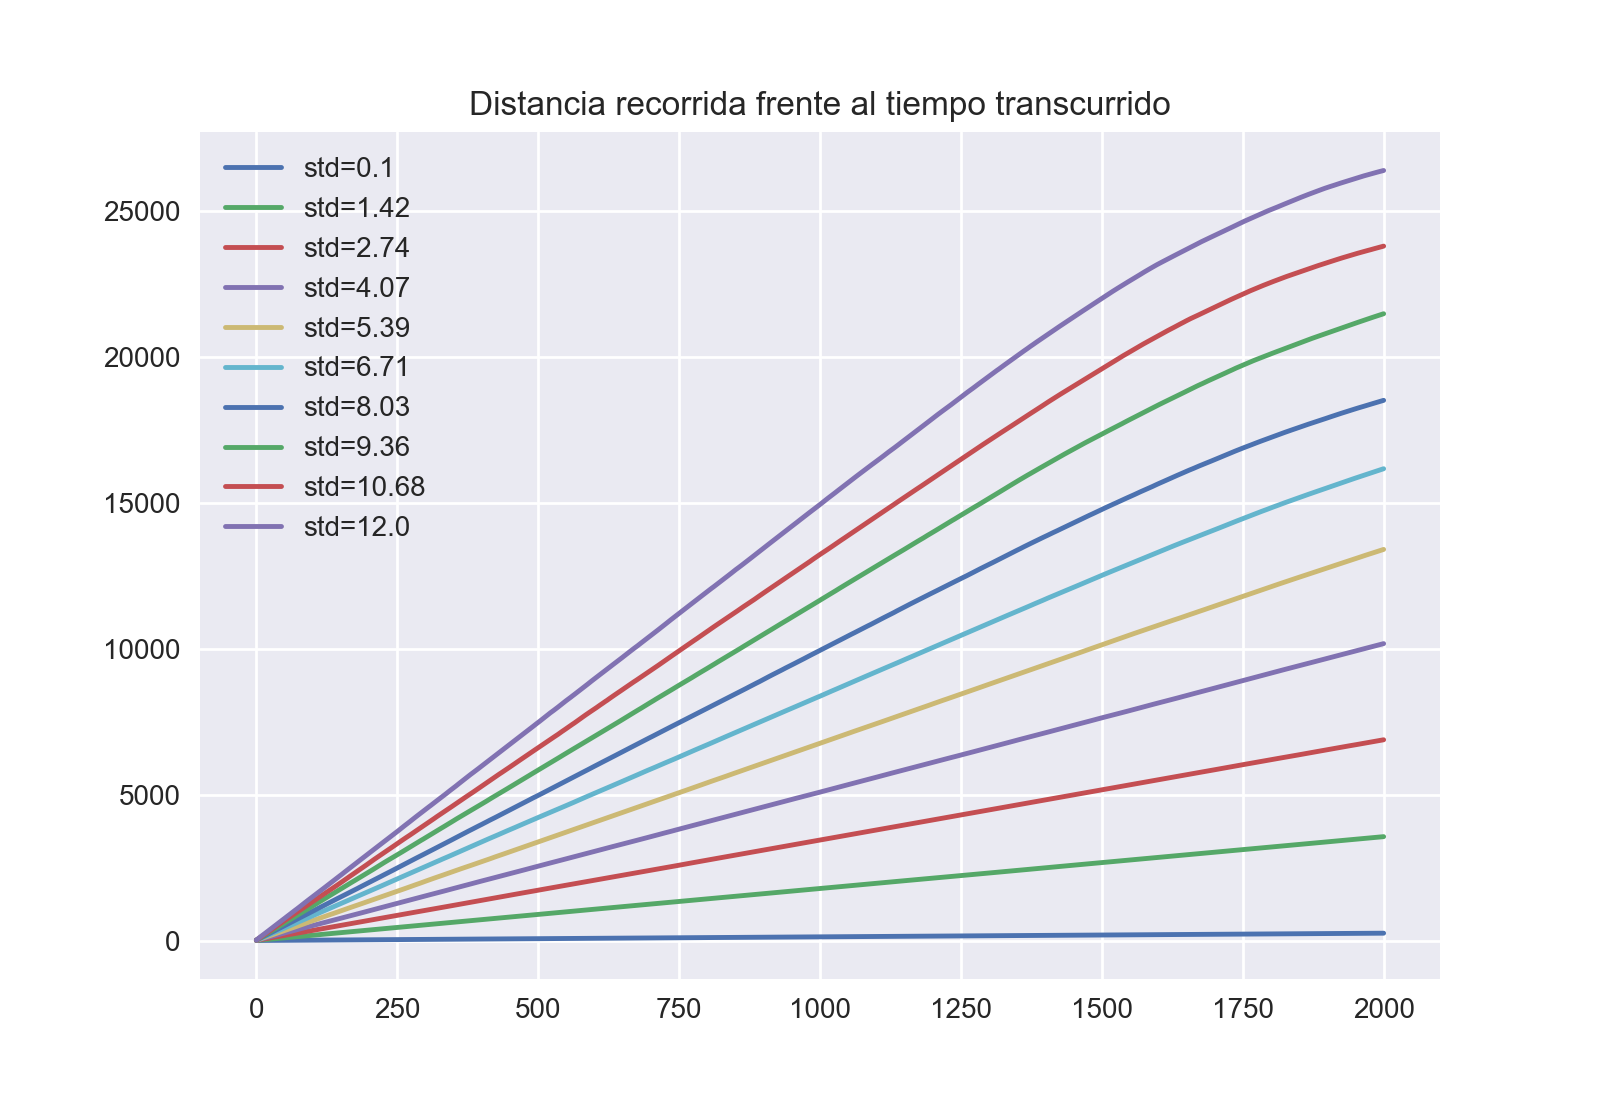
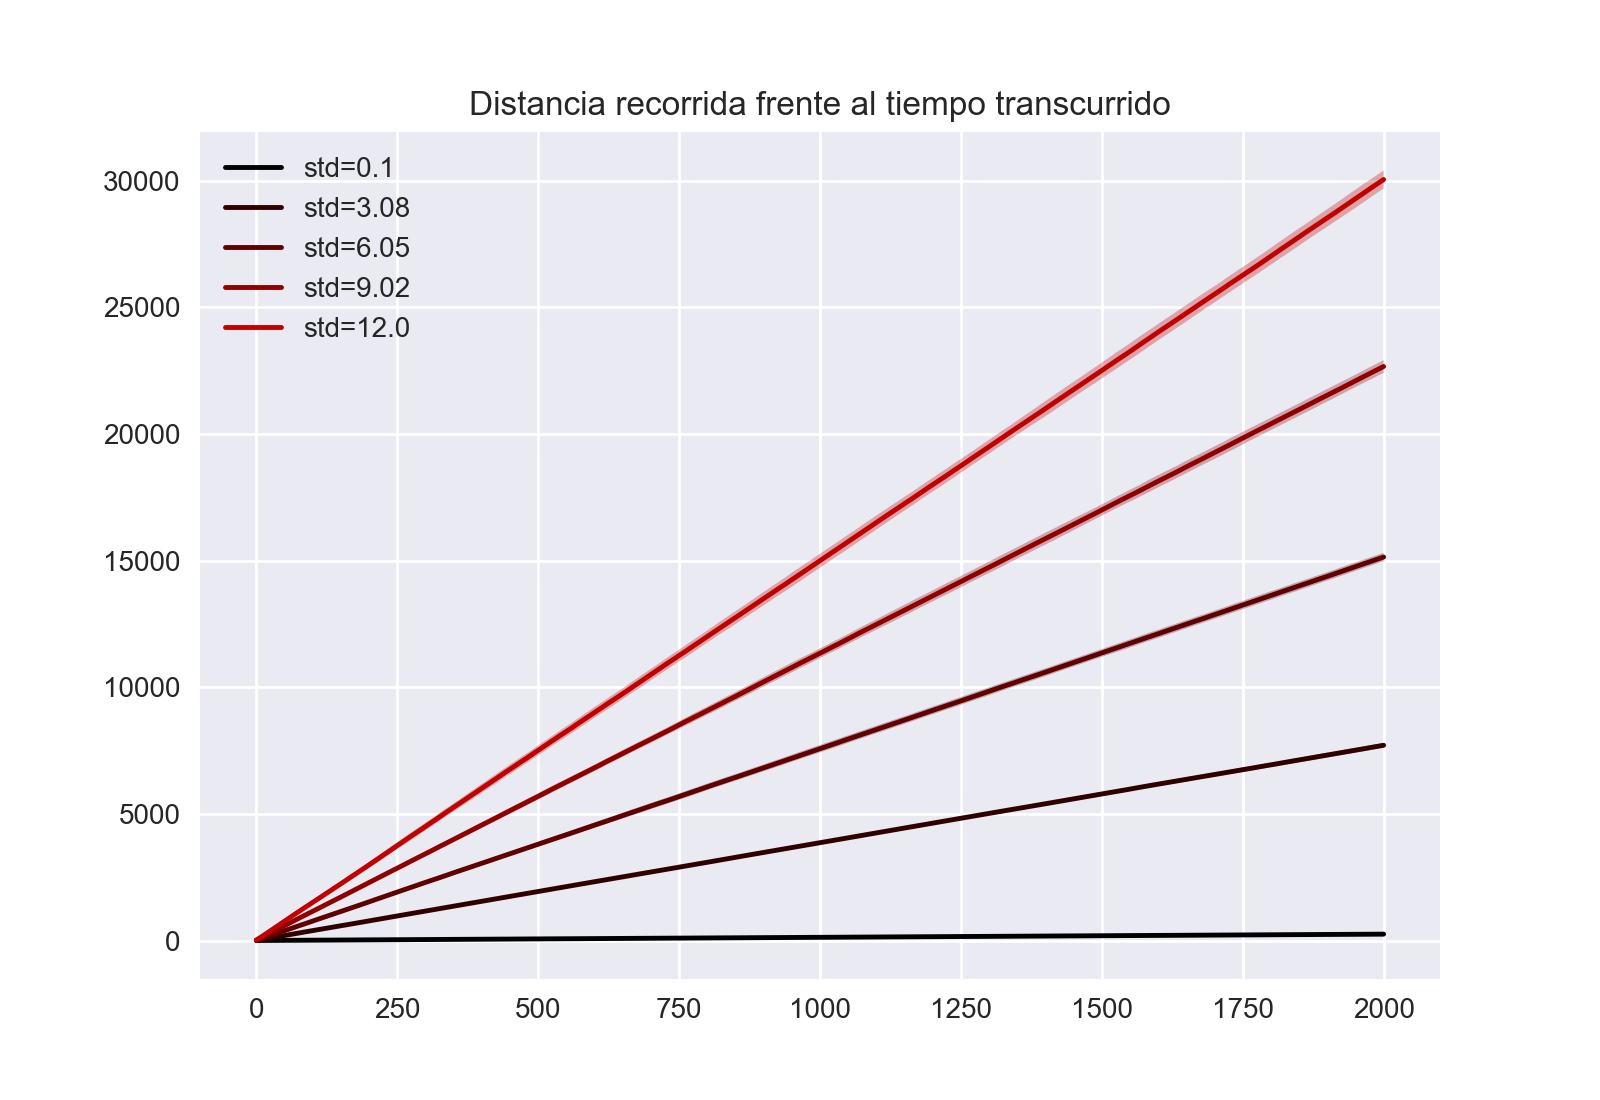
Para entrega 1

diff --git a/Proyecto/scripts/distancia_y_tiempos_variando_std.py b/Proyecto/scripts/distancia_y_tiempos_variando_std.py
@@ -1,7 +1,7 @@
 """
-Estudia  como varia el numero de targets/espacio recorrido y plotea el
-histograma de los valores obtenidos variando la desviacion estandar
-"""
+    Estudia  como varia el numero de targets/espacio recorrido y plotea el
+    histograma de los valores obtenidos variando la desviacion estandar
+    """
 
 import os
 import sys
@@ -18,15 +18,15 @@ from simulador import TargetEspacioOrganismo, VariacionParametroBloques
 from simulador import RandomWalker, LevyFlight
 from simulador import Explotados, Distancias
 
-n_simulaciones = 20
+n_simulaciones = 100
 n_variaciones = 5
 
 # Configuracion del espacio
 n_objetivos = 100 # Numero de objetivos
 size = (100.,100.) # Dimensiones del espacio
-r = 3 # Radio de explotacion
+r = 3 # Radio de explotacion
 std = np.linspace(0.1, 12, n_variaciones) # Desviacion estandar del movimiento browniano
-t = 500 # Tiempo a simular
+t = 2000 # Tiempo a simular
 inicial = (50,50) # Coordenadas iniciales (None para aleatorias)
 
 # Configuracion Plot
@@ -44,19 +44,24 @@ modelo.add_estadistica(Distancias())
 #Plots
 fig, distancias = plt.subplots(1, 1)
 distancias.set_title("Distancia recorrida frente al tiempo transcurrido")
+distancias.set_prop_cycle(color=plt.cm.gist_heat(np.linspace(0,0.5, n_variaciones)))
 
 fig, explotados = plt.subplots(1, 1)
 explotados.set_title("Numero de objetivos explotados frente al tiempo")
+explotados.set_prop_cycle(color=plt.cm.gist_heat(np.linspace(0,0.5, n_variaciones)))
 
 for desviacion in std:
     # Creamos un random walker y lo añadimos al modelo
     organismo = RandomWalker(r, std=desviacion, posicion=inicial)
     modelo.add_organismo(organismo)
-    modelo.simular(t, n_simulaciones, stop_empty=True, verbose=1)
-
+    modelo.simular(t, n_simulaciones, stop_empty=False, verbose=1)
+    
     organismo.plot_distancias(ax=distancias, param =f"std={round(desviacion,2)}")
     organismo.plot_numero_explotados(modelo, ax=explotados, param=f"std={round(desviacion,2)}")
     modelo.limpiar_organismos()
+
+    #print(organismo.std_distancias[1])
+    #print(organismo.std_distancias[-1])
 
 
 plt.show()

diff --git a/Proyecto/simulador/plots_temp.py b/Proyecto/simulador/plots_temp.py
@@ -1,0 +1,43 @@
+
+import matplotlib.pyplot as plt
+import numpy as np
+
+from .organismo import Organismo
+
+### Graficas de la estadistica Distancia recorrida
+def plot_distancias(organismo, ax=None, param=None, plot_ci=True):
+
+    if ax is None:
+        ax = plt.gca()
+
+    times = range(len(organismo.medias_distancias))
+    ax.plot(times, organismo.medias_distancias, label=param)
+    if plot_ci:
+        y1 = organismo.medias_distancias + organismo.std_distancias
+        y2 = organismo.medias_distancias - organismo.std_distancias
+        ax.fill_between(times, y1, y2, where=y1>=y2, alpha=0.3)
+        #ax.plot(times, y1, linestyle="dashed", color="red", linewidth=0.5)
+        #ax.plot(times, y2, linestyle="dashed", color="red", linewidth=0.5)
+    if param:
+        ax.legend()
+    return ax
+
+### Graficas de el numero de objetivos explotados en funcion del tiempo
+def plot_numero_explotados(organismo, modelo, ax=None, param=None, plot_ci=True):
+
+    if ax is None:
+        ax = plt.gca()
+
+    #ax.set_ylim([0, modelo.objetivos.numero_objetivos_inicial]) #Numero de objetivos inicial
+
+    times = range(len(organismo.medias_explotados))
+    ax.plot(times, organismo.medias_explotados, label=param)
+    if plot_ci:
+        y1 = organismo.medias_explotados + organismo.std_explotados
+        y2 = organismo.medias_explotados - organismo.std_explotados
+        ax.fill_between(times, y1, y2, where=y1>=y2, alpha=0.3)
+        #ax.plot(times, y1, linestyle="dashed", color="red", linewidth=0.5)
+        #ax.plot(times, y2, linestyle="dashed", color="red", linewidth=0.5)
+    if param:
+        ax.legend()
+    return ax

diff --git a/Proyecto/simulador/estadistica.py b/Proyecto/simulador/estadistica.py
@@ -6,7 +6,7 @@ import numpy as np
 import types
 
 from .plots import *
-from .plots_jari import *
+from .plots_temp import *
 
 def add_metodo(instancia, funcion):
     """Añade un metodo a una instancia de una clase
@@ -101,6 +101,7 @@ class Explotados(Estadistica):
     def inicializar_simulaciones(self, numero_simulaciones, closing_time):
         for organismo in self.modelo:
             organismo.medias_explotados = np.zeros(closing_time)
+            organismo.std_explotados = np.zeros(closing_time)
             add_metodo(organismo, plot_numero_explotados)
 
     def inicializar(self, closing_time, n_simulacion):
@@ -114,17 +115,21 @@ class Explotados(Estadistica):
         for organismo in self.modelo:
             if len(organismo.explotados_step) > 0:
                 organismo.explotados[t] = organismo.explotados_step
-            organismo.numero_explotados_t[t:]  = organismo.n_explotados
+            organismo.numero_explotados_t[t]  = organismo.n_explotados
 
     def finalizar(self, t, n_simulacion):
 
         for organismo in self.modelo:
             organismo.medias_explotados += organismo.numero_explotados_t
+            organismo.std_explotados += organismo.numero_explotados_t**2
 
     def finalizar_bloque(self):
         
         for organismo in self.modelo:
             organismo.medias_explotados /= self.modelo.n_simulaciones
+            organismo.std_explotados /= self.modelo.n_simulaciones
+            organismo.std_explotados -= organismo.medias_explotados**2
+            organismo.std_explotados = np.sqrt(organismo.std_explotados)
 
 
 

diff --git a/Proyecto/simulador/estadisticas_temp.py b/Proyecto/simulador/estadisticas_temp.py
@@ -8,7 +8,7 @@ import numpy as np
 import types
 
 from .plots import *
-from .plots_jari import *
+from .plots_temp import *
 
 class Distancias(Estadistica):
     """Estadistica para almacenar los elementos explotados en cada paso"""
@@ -16,6 +16,7 @@ class Distancias(Estadistica):
     def inicializar_simulaciones(self, numero_simulaciones, closing_time):
         for organismo in self.modelo:
             organismo.medias_distancias = np.zeros(closing_time)
+            organismo.std_distancias = np.zeros(closing_time)
             add_metodo(organismo, plot_distancias)
 
     def inicializar(self, closing_time, n_simulacion):
@@ -25,14 +26,18 @@ class Distancias(Estadistica):
     def actualizar(self, t, n_simulacion):
 
         for organismo in self.modelo:
-            organismo.distancias[t:] = organismo.espacio_recorrido
+            organismo.distancias[t] = organismo.espacio_recorrido
 
     def finalizar(self, t, n_simulacion):
 
         for organismo in self.modelo:
             organismo.medias_distancias += organismo.distancias
+            organismo.std_distancias += organismo.distancias**2
 
     def finalizar_bloque(self):
 
         for organismo in self.modelo:
             organismo.medias_distancias /= self.modelo.n_simulaciones
+            organismo.std_distancias /= self.modelo.n_simulaciones
+            organismo.std_distancias -= organismo.medias_distancias**2
+            organismo.std_distancias = np.sqrt(organismo.std_distancias)

diff --git a/Proyecto/scripts/comparacion_random_walker_vs_levy_flight.py b/Proyecto/scripts/comparacion_random_walker_vs_levy_flight.py
@@ -15,7 +15,7 @@ from simulador import Trayectoria, Explotados
 from simulador import RandomWalker, LevyFlight
 from simulador import Distancias
 
-n_simulaciones = 100
+n_simulaciones = 50
 
 # Caso objetivos uniformes
 n_objetivos = 200 # Numero de objetivos
@@ -27,7 +27,7 @@ std_grupos = 3 # Desviacion estandar de los grupos
 size = (100.,100.) # Dimensiones del espacio
 r = 3 # Radio de explotacion
 std = 1.5 # Desviacion estandar del movimiento browniano
-t = 1000 # Tiempo a simular
+t = 2000 # Tiempo a simular
 inicial = (50,50) # Coordenadas iniciales (None para aleatorias)
 #Organismo LevyFlight
 a = 1.5 # alpha de distribucion de levy
@@ -70,7 +70,7 @@ organismo.plot_distancias(param="random_walker")
 organismo2.plot_distancias(param="levy_flight")
 
 plt.figure()
-organismo.plot_numero_explotados(modelo, param="random_walker")
-organismo2.plot_numero_explotados(modelo, param="levy_flight")
+organismo.plot_numero_explotados(modelo, param="random_walker", plot_ci=True)
+organismo2.plot_numero_explotados(modelo, param="levy_flight", plot_ci=True)
 
 plt.show()

diff --git a/Proyecto/simulador/__init__.py b/Proyecto/simulador/__init__.py
@@ -5,6 +5,6 @@ from .estadistica import *
 from .modelo import *
 from .objetivos import *
 from .organismo import *
-from .estadisticas_jari import *
+from .estadisticas_temp import *
 
 # No importamos directamente los plots pues seran internos
